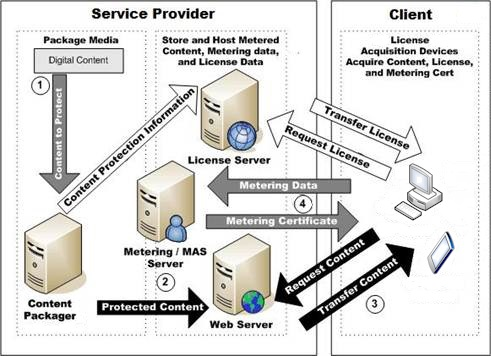
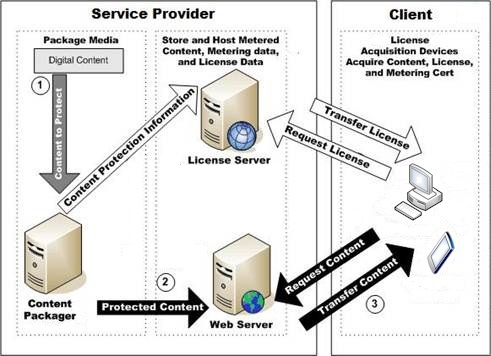
Integrate Tim Rule's feedback

Changed region(s): [[0.2444, 0.4326, 0.7332, 0.7725]]

diff --git a/Docs/Overview/scenario-subscription-content.md b/Docs/Overview/scenario-subscription-content.md
@@ -30,7 +30,7 @@ Note that the service can deliver multiple licenses in one single license respon
 In a subscription model where a large number of content pieces are played (for example, in a music service where the user downloads thousands of tracks to play offline), the client has to manage thousands of different licenses, one for each content. Because this is a subscription service (for example, it requires a monthly renewal), the licenses that are delivered have an expiration at the renewal date of the monthly subscription, and the user expects all the licenses to be renewed when the monthly fee is paid again.
 
 
-To optimize this scenario, the service should use chained licenses. Each piece of content is bound to a unique leaf license. All leaf licenses are bound to the same root license. The leaf licenses do not have beginning and expiration times, but the root license has these beginning and expiration times. Therefore, only the root license must be reacquired upon subscription renewal. A leaf license may be metered because mechanical royalties (pay per play) tend to be lower when content play counts are monitored. Additionally, devices that play subscription content must support a PlayReady trusted clock to enforce the subscription policy associated with playback licenses. For more information, see [License Chaining](license-chaining.md).
+To optimize this scenario, the service should use chained licenses. Each piece of content is bound to a unique leaf license. All leaf licenses are bound to the same root license. The leaf licenses do not have beginning and expiration times, but the root license has these beginning and expiration times. Therefore, only the root license must be reacquired upon subscription renewal. Additionally, devices that play subscription content must support a PlayReady trusted clock to enforce the subscription policy associated with playback licenses. For more information, see [License Chaining](license-chaining.md).
 
 
  ![Subscription Content](../images/image26_9.jpg)
@@ -38,16 +38,11 @@ To optimize this scenario, the service should use chained licenses. Each piece o
 
 The subscription content scenario performs the following steps, as illustrated in the figure.
 
-   1. The service provider transfers unprotected content to the content packaging server.
+   1. The service provider transfers unprotected content to the content packaging server. The service provider transfers the license to the license server.
 
-      The service provider configures the content for metering and transfers the license to the license server.
-
-   1. The service provider transfers protected content to a Web server for distribution. If the subscription service uses metering, the client must acquire a metering certificate before playing back content.
+   1. The service provider transfers protected content to a Web server for distribution.
 
    1. When the client is ready, it can acquire subscription content and a license that expires when the subscription ends.
-
-   1. The client reports metering data to the metering aggregation server for royalty payments.
-
 
 
 The most common delivery mechanisms for subscription content is to stream the protected content from a Web service, or to download the content onto a local device and then play the content.

diff --git a/Docs/Overview/scenario-rental-content.md b/Docs/Overview/scenario-rental-content.md
@@ -18,7 +18,7 @@ ms.technology: drm
 # Scenario: Rental Content
 
 
-In rental content, the license delivered for the content specifies an expiration date and time. After this date and time occurs, the content may still be on the user's device, and the license may still also be persisting in the user's device's data store, but the PlayReady client in the user's device will use the device's clock system to verify if the license is still valid, and enforce the expiration set by the service in the license.
+For rental content, the license delivered for the content specifies an expiration date and time. After this date and time occurs, the content may still be on the user's device, and the license may still also be persisting in the user's device's data store, but the PlayReady client in the user's device will use the device's clock system to verify if the license is still valid, and enforce the expiration set by the service in the license.
 
 
 In addition, it is a recommended good practice to set a begin date and time (typically the date and time that the user paid for the content). This will help protect the system in some cases where the user would be able to roll back the clock of their device.
@@ -29,15 +29,15 @@ An alternative is for the service to provide a limitation in the license in term
 
 A typical example would be:
 
-   *  A user rents content on Friday, November 11, 2016 at 8 PM.
+   *  A user rents content on Friday, January 5, 2018 at 8 PM.
 
    *  The license delivered to the user includes the following restrictions:
 
       *  Right&mdash;Play
 
-      *  Begin Time&mdash;November 11, 2016 at 8 PM
+      *  Begin Time&mdash;January 5, 2018 at 8 PM
 
-      *  Expiration Time&mdash;December 11, 2016 at 8PM
+      *  Expiration Time&mdash;February 5, 2018 at 8PM
 
       *  Expiration After First Play&mdash;48 hours
 
@@ -78,7 +78,7 @@ The most common delivery mechanisms for rental content is to stream the protecte
 
 When streaming rental media, content continuously plays back while it's being transferred from the Web server. The following technical aspects should be considered when implementing rental content that is streamed to user devices.
 
-   *  PlayReady supports many kinds of protocols. There is no restriction for any protocol. However, clients usually support one or many of the following standards: SSTP (Smooth Streaming, DASH, HLS). In addition to these protocols, it is perfectly acceptable and doable for a service that controls both its backend and clients to implement a different protocol, for example multicast TS on a closed network.
+   *  PlayReady supports many kinds of protocols. There is no restriction for any protocol. However, clients usually support one or many of the following standards: SSTP (Smooth Streaming), DASH (Dynamic Adaptive Streaming over HTTP), HLS (HTTP Live Streaming). In addition to these protocols, it is perfectly acceptable and doable for a service that controls both its backend and clients to implement a different protocol, for example multicast TS on a closed network.
 
    *  The format of the content is typically H264 + AAC, or H265 + AAC, but all other codecs are allowed by PlayReady. However, for some of them the service may have to build the tools.
 

diff --git a/Docs/Overview/servers.md b/Docs/Overview/servers.md
@@ -13,6 +13,7 @@ ms.technology: drm
 ---
 
 # PlayReady Servers
+PlayReady Servers can take different forms depending on whether they are programmed to deliver licenses, or manage PlayReady domains of clients, or receive and aggregate metering data from clients, etc. These logical servers are all developed in C# based on the same PlayReady Server SDK, and a single server application can implement one or several of the PlayReady Server functionalities.
 
 
 ## PlayReady License Server
@@ -28,25 +29,25 @@ An optional PlayReady domain server allows you to manage content access for mult
 > [!NOTE]
 > A PlayReady domain is not the same as network or Web domains.
 
-For more information about PlayReady domains, see [PlayReady Domain Server](domains.md).
+For more information about PlayReady domains, see [PlayReady Domain Server](domain-server.md).
 
 ## PlayReady Metering server
 
 An optional PlayReady metering server provides a process that indicates how many times specific content has been played. For example, you could use this metering aggregation service in a subscription scenario to track content usage and charge the use appropriately.
 
-For more information about PlayReady metering, see [PlayReady Metering Server](metering.md).
+For more information about PlayReady metering, see [PlayReady Metering Server](metering-server.md).
 
 ## PlayReady Secure Stop server
 
 An optional PlayReady Secure Stop server provides the means for a PlayReady device to confidently assert to a media streaming service that media playback has stopped for any given piece of content. This capability ensures your media streaming services provide accurate enforcement and reporting of usage limitations on different devices for a given account.
 
-For more information about PlayReady Secure Stop, see [PlayReady Secure Stop Server](secure-stop.md).
+For more information about PlayReady Secure Stop, see [PlayReady Secure Stop Server](secure-stop-server.md).
 
 ## PlayReady Secure Delete server
 
 PlayReady Secure Delete allows service providers to receive secure acknowledgement of license deletion. This optional feature provides a PlayReady Secure Delete server with a means to track which licenses are available and which have been deleted on a particular client.
 
-For more information about PlayReady Secure Delete, see [PlayReady Secure Delete](secure-delete.md).
+For more information about PlayReady Secure Delete, see [PlayReady Secure Delete](secure-delete-server.md).
 
 ## Development and operation by a third party
 
@@ -59,10 +60,10 @@ You can either develop and deploy these servers yourself, or these services can 
 
 [Best Practices for License Policies](policies-best-practices.md)
 
-[PlayReady Domain Server](domains.md)
+[PlayReady Domain Server](domain-server.md)
 
-[PlayReady Metering Server](metering.md)
+[PlayReady Metering Server](metering-server.md)
 
-[PlayReady Secure Stop Server](secure-stop.md)
+[PlayReady Secure Stop Server](secure-stop-server.md)
 
-[PlayReady Secure Delete](secure-delete.md)
+[PlayReady Secure Delete](secure-delete-server.md)

diff --git a/Docs/TOC.md b/Docs/TOC.md
@@ -12,7 +12,7 @@
 
 ### [License Persistence](Overview/license-persistence.md)
 
-### [Client Security Level](Overview/security-level.md)
+### [Security Level](Overview/security-level.md)
 
 ### [License and Policies](Overview/license-and-policies.md)
 
@@ -28,17 +28,17 @@
 
 ### [Scenario: Live TV](Overview/scenario-live-tv.md)
 
-## [PlayReady Products and Deliverables](Overview/playready-products-and-deliverables.md)
+## [PlayReady Products and Deliverables](Overview/products-and-deliverables.md)
 
-### [PlayReady Server SDK](Overview/playready-server-sdk.md)
+### [PlayReady Server SDK](Overview/server-sdk.md)
 
-### [PlayReady Device Porting Kit](Overview/playready-porting-kit.md)
+### [PlayReady Device Porting Kit](Overview/device-porting-kit.md)
 
 ### [PlayReady for Windows](Overview/playready-for-windows.md)
 
 ### [PlayReady and Silverlight](Overview/silverlight.md)
 
-### [PlayReady Product Versions](Overview/playready-product-versions.md)
+### [PlayReady Product Versions](Overview/product-versions.md)
 
 ## [Encryption](Overview/encryption.md)
 
@@ -48,21 +48,21 @@
 
 ### [PlayReady Content Encryption Modes](Overview/content-encryption-modes.md)
 
-## [PlayReady Servers](Overview/playready-servers.md)
+## [PlayReady Servers](Overview/servers.md)
 
 ### [PlayReady License Server](Overview/license-server.md)
 
 ### [Best Practices for License Policies](Overview/policies-best-practices.md)
 
-### [PlayReady Domain Server](Overview/domains.md)
+### [PlayReady Domain Server](Overview/domain-server.md)
 
-### [PlayReady Metering Server](Overview/metering.md)
+### [PlayReady Metering Server](Overview/metering-server.md)
 
-### [PlayReady Secure Stop Server](Overview/secure-stop.md)
+### [PlayReady Secure Stop Server](Overview/secure-stop-server.md)
 
-### [PlayReady Secure Delete](Overview/secure-delete.md)
+### [PlayReady Secure Delete](Overview/secure-delete-server.md)
 
-## [PlayReady Clients](Overview/playready-clients.md)
+## [PlayReady Clients](Overview/clients.md)
 
 ### [PlayReady Client Architectures](Overview/client-architectures.md)
 
@@ -72,7 +72,7 @@
 
 ### [PlayReady Revocation](Overview/revocation.md)
 
-## [PlayReady Communication Protocols](Overview/playready-communication-protocols.md)
+## [PlayReady Communication Protocols](Overview/communication-protocols.md)
 
 ### [PlayReady Client-Server Protocol](Overview/client-server-protocol.md)
 

diff --git a/Docs/Overview/metering-server.md b/Docs/Overview/metering-server.md
@@ -1,6 +1,6 @@
 ---
 author:
-title: PlayReady Metering
+title: PlayReady Metering Server
 description: Metering is the process for counting the number of times content is played.
 ms.assetid: "fec11f72-95f0-a80c-83cd-beafe53b4a57"
 kindex: metering, about PlayReady
@@ -15,7 +15,7 @@ ms.technology: drm
 ---
 
 
-# PlayReady Metering
+# PlayReady Metering Server
 
 
 *Metering* is the process for counting the number of times content is played. Metering is important because it allows a subscription content service provider to offer content on this basis. For example, in North America, if a song is transferred to a "blind" system, in which there will be no monitoring of the usage, a "mechanical royalty" of approximately 8 cents per song is required. On the other hand, if the licensee monitors content usage and reports it, the licensee pays a reduced mechanical royalty of 1 cent for each *play*. This can make a significant difference during transfers of large catalogs of music (for example, 10,000 songs). Even extremely heavy music-listening is likely to generate only 2,000 plays per month ($20 in royalties), whereas the mechanical royalty for these 10,000 songs would have been $800. There is therefore an economic incentive to "meter" content under this circumstance.
@@ -70,24 +70,9 @@ The metering process performs the following steps, as illustrated in the figure:
 
 PlayReady incorporates a protocol to get the metering certificate from the license server.
 
+
+
 <a id="ID4EXC"></a>
-
-
-
-## Initiators
-
-
-PlayReady follows the principles of service orientation, in that a service is a passive piece of code you interact with through messages. As such, services wait for incoming messages before doing any work. Clients are the "initiators" that send messages to services to request work. The communication between server and client is then orchestrated through "endpoints" that the server exposes. These endpoints have three main properties:
-
-   *  An address that signifies where messages are sent
-
-   *  A binding that defines how to send the message
-
-   *  The contract that describes what the message contains
-
-
-<a id="ID4END"></a>
-
 
 
 ## Collecting and updating metering information

diff --git a/Docs/Overview/embedded-licenses.md b/Docs/Overview/embedded-licenses.md
@@ -19,7 +19,7 @@ ms.technology: drm
 PlayReady allows an application to store the license for a DRM-protected content file in the PlayReady Object of the content file itself. Because the license is stored (or "embedded") in the content file, it is immediately available, enabling a player application to decrypt and begin playing the content without first needing to complete the license acquisition process or check the HDS store.
 
 
-When a domain-bound personal computer or device acquires a license for a DRM-protected content file, it can embed the license into the content file. If the license is flagged to be embedded, the application is required to embed the license. Afterward, if the user copies the content file to another personal computer or device in the domain, the player application on the personal computer or device can play the content without needing to reacquire the license. If the user copies the content file to a personal computer or device outside of the domain, the license will not be valid and the personal computer or device must acquire a valid license before the content can be played, or join the personal computer or device to the domain. For more information on joining domains, see [Domain management](domains.md#domain_management).
+When a domain-bound personal computer or device acquires a license for a DRM-protected content file, it can embed the license into the content file. If the license is flagged to be embedded, the application is required to embed the license. Afterward, if the user copies the content file to another personal computer or device in the domain, the player application on the personal computer or device can play the content without needing to reacquire the license. If the user copies the content file to a personal computer or device outside of the domain, the license will not be valid and the personal computer or device must acquire a valid license before the content can be played, or join the personal computer or device to the domain. For more information on joining domains, see [Domain management](domain-server.md#domain_management).
 
 
 Using embedded licenses improves the user's media experience in scenarios such as the following:

diff --git a/Docs/Overview/product-versions.md b/Docs/Overview/product-versions.md
@@ -32,10 +32,10 @@ The following table shows the feature availability for each version of the PlayR
 >|Dec'12|**2.5** | - PlayReady-Network Device (PlayReady-ND)| &mdash; | 2.5.1789 | 2.5.1778| &mdash; | &mdash; | &mdash; |
 >|Nov'13|**2.9** | - LicenseTemplateHandlerChaining sample<br/>- Support for iOS and Android| 2.9.1995| &mdash;| &mdash; | &mdash; | 1.0<br/>Initial version | 1.0<br/>Initial version|
 >|May'14|**2.11** | - MPEG-DASH<br/>- Updated PlayReady-ND test transmitter<br/>- Updates to PlayReady Client SDK for iOS<br/>- Updates to PlayReady Client SDK for Android| &mdash; | 2.11.2155| &mdash; | &mdash; |2.1 Sep'14 <br/>2.3 Oct'14 <br/>2.4 Aug'15 |  3.0 Dec'14<br/>3.2 Aug'15 |
->|Mar'15|**3.0** | - SL3000<br/>- Multiple Keys<br/>- [Secure Stop](secure-stop.md)<br/>- Improvements for non-persistent licenses|3.0|  3.0.4019 | 3.0.2726 | &mdash; | &mdash; | &mdash;  |
+>|Mar'15|**3.0** | - SL3000<br/>- Multiple Keys<br/>- [Secure Stop](secure-stop-server.md)<br/>- Improvements for non-persistent licenses|3.0|  3.0.4019 | 3.0.2726 | &mdash; | &mdash; | &mdash;  |
 >|Sep'16|**3.2** | [Secure Time](trusted-clocks.md) (Secure Clock Service in the TEE)|&mdash;|3.2.4242| 3.2.4242 | Deprecated | No further enhancements | Deprecated |
 >|Apr'17|**3.3** | - New CDMi module<br/>- Fix for vulnerabilities in the PK header parser |&mdash;|3.3.4474| 3.3.4475 | &mdash;| &mdash;| &mdash;|
->|Oct'17|**4.0**| - Expanded support for multiple Common Encryption Modes, including CBC1, CBCS, and CENS.<br/>- [Secure Delete](secure-delete.md) support | 4.0.5117 | 4.0.5102 | 4.0| No longer distributed (see [PlayReady on Windows](playready-products-and-deliverables.md#prwindows))| &mdash;| No longer distributed|
+>|Oct'17|**4.0**| - Expanded support for multiple Common Encryption Modes, including CBC1, CBCS, and CENS.<br/>- [Secure Delete](secure-delete-server.md) support | 4.0.5117 | 4.0.5102 | 4.0| No longer distributed (see [PlayReady on Windows](products-and-deliverables.md#prwindows))| &mdash;| No longer distributed|
 
 
 &nbsp;

diff --git a/Docs/index.md b/Docs/index.md
@@ -13,7 +13,7 @@ As of 2017, thousands of services around the world and more than four billion de
 
 PlayReady 3.0 and later supports media content composed of audio and video, such as music or movies. Earlier versions of PlayReady (1.X and 2.X) supports other types of content, such as executable applications and ebooks. 
 
-The latest version of PlayReady, PlayReady 4.0, was released in October of 2017. It added support for a whole class of content, content encrypted in AES-CBC mode, in addition to the content encrypted in AES-CTR mode. Content encrypted in AES-CTR has been supported since PlayReady version 1. Learn more about the different versions of PlayReady [here](Overview/playready-product-versions.md). We recommend that services update their license servers to the latest version available, and device makers do the same. However, at all times, the PlayReady ecosystem includes servers and clients running various versions of PlayReady. Please see [PlayReady Product Versions](Overview/playready-product-versions.md) to learn more about the inter-operability of PlayReady clients and servers.
+The latest version of PlayReady, PlayReady 4.0, was released in October of 2017. It added support for a whole class of content, content encrypted in AES-CBC mode, in addition to the content encrypted in AES-CTR mode. Content encrypted in AES-CTR has been supported since PlayReady version 1. Learn more about the different versions of PlayReady [here](Overview/product-versions.md). We recommend that services update their license servers to the latest version available, and device makers do the same. However, at all times, the PlayReady ecosystem includes servers and clients running various versions of PlayReady. Please see [PlayReady Product Versions](Overview/product-versions.md) to learn more about the inter-operability of PlayReady clients and servers.
 
 
 <!-- You can find a list of docs icons for use here: https://review.docs.microsoft.com/en-us/prod-test/gallery/image-gallery?branch=master  -->

diff --git a/Docs/Overview/simple-end-to-end-system.md b/Docs/Overview/simple-end-to-end-system.md
@@ -26,7 +26,7 @@ The following illustration contains a high-level look at an end-to-end video ser
 
 On the left side of the illustration you can see the service has some servers to stream the video (content distribution network). There are also some servers that let the users browse the content and choose the content they want to play (user interface). In addition, there are some servers that allow the users to log in and be authenticated, as well as pay for content (authenticate, pay). And, there is also a PlayReady license server.
 
-On the right side of the illustation are the clients. The clients could be Windows applications, iPhone applications, or specific devices such as set top boxes, Roku receivers, and so on. Some of these clients may come with a PlayReady integrated client in their players, for example, the OEM may have integrated PlayReady in the operating system or in the hardware. Others could come with a client integrated in the application that is published in the app store. There are many different options for players to integrate PlayReady on the client side.
+On the right side of the illustation are the clients. The clients could be Windows applications, smartphone applications, or specific devices such as set top boxes, network receivers, and so on. Some of these clients may come with a PlayReady integrated client in their players, for example, the OEM may have integrated PlayReady in the operating system or in the hardware. Others could come with a client integrated in the application that is published in the app store. There are many different options for players to integrate PlayReady on the client side.
 
 This topic is going to focus on what PlayReady does for a service, as shown in the following figure.
 

diff --git a/Docs/Overview/content-encryption-overview.md b/Docs/Overview/content-encryption-overview.md
@@ -108,7 +108,6 @@ It is up to the content provider to ensure that their audio and video content ha
 ## Protected non-audio/video content
 
 
-PlayReady allows you to create a protected package containing content that is not limited to audio or video payloads. These packages, referred to as envelopes, can contain files such as a collection of data files and executables (for example, a cell phone game), pictures (for example, cell phone wallpaper), or sounds (for example, cell phone ring tones). This content is packaged by encapsulating the files into an envelope file, which can be decrypted in a manner similar to audio/video content.
+PlayReady version 1 and 2 allows to create a protected package containing content that is not limited to audio or video payloads. These packages, referred to as envelopes, can contain files such as a collection of data files and executables (for example, an application distributed by an application store), pictures (for example, screen wallpaper), or ebooks. This content is packaged by encapsulating the files into an envelope file, which can be decrypted in a manner similar to audio/video content.
 
-
-Envelope packaging of content enables interesting scenarios that are new to PlayReady. For example, a cell phone video game publisher can create a game and package it using an envelope. That game can be distributed over the Web or super distributed from one game purchaser to another. Before the user can play the game, the user must purchase a license.
+These non audio/video content types are no longer supported in PlayReady 3.0 and later. 

diff --git a/Docs/Overview/products-and-deliverables.md b/Docs/Overview/products-and-deliverables.md
@@ -61,7 +61,7 @@ Complete information about certificates and how to obtain different types of cer
 
 PlayReady Server SDK is delivered as two Microsoft MSI files that contain the libraries, samples, and tools required to develop a PlayReady license server, PlayReady domain server, PlayReady metering server, PlayReady secure stop server, or PlayReady secure delete server. In addition, you will also be supplied with the PlayReady documentation and any additional current information in the PlayReady Server SDK readme file.
 
-For more information on PlayReady Server SDK, see [PlayReady Server SDK](playready-server-sdk.md).
+For more information on PlayReady Server SDK, see [PlayReady Server SDK](server-sdk.md).
 
 ### PlayReady Server on Azure
 
@@ -89,7 +89,7 @@ Silverlight is a deprecated application framework running on Windows 7 and Mac O
 
 PlayReady Device Porting Kit is delivered as a Microsoft MSI file that contains the libraries, samples, tools, and source code required to create portable devices for use with digital content that was protected with PlayReady technology.
 
-For more information on PlayReady Device Porting Kit, see [PlayReady Device Porting Kit](playready-porting-kit.md).
+For more information on PlayReady Device Porting Kit, see [PlayReady Device Porting Kit](device-porting-kit.md).
 
 ### PlayReady documentation
 

diff --git a/Docs/Overview/scenario-purchased-content.md b/Docs/Overview/scenario-purchased-content.md
@@ -50,7 +50,7 @@ The purchased content scenario performs the following steps:
 The figure above illustrates either a download-and-play model or a streaming model. Other scenarios would lead to a slightly different illustration. For example, live streaming would perform the packaging/encryption in real-time in step 2.
 
 
-Optionally, purchased content can be shared across devices using domains and embedded licenses. For more information, see [PlayReady Domains](domains.md) and [Embedded Licenses](embedded-licenses.md).
+Optionally, purchased content can be shared across devices using domains and embedded licenses. For more information, see [PlayReady Domains](domain-server.md) and [Embedded Licenses](embedded-licenses.md).
 
 
 For content that was purchased to own, users expect the content to play indefinitely on their devices. Services would most likely issue licenses for this content with no expiration at all. However, because users change devices frequently, and because each device may change its PlayReady identity some time (when a re-individualization is run, or when a device is completely reinstalled), services should be ready at any time to re-issue licenses for purchased content that was previously delivered to a user or a device.
